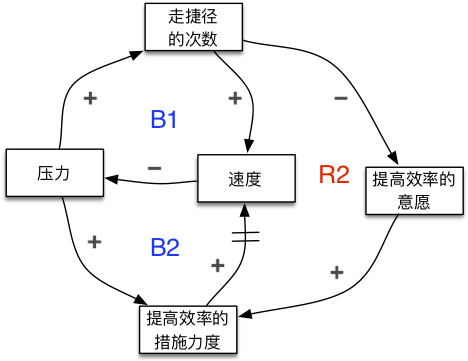
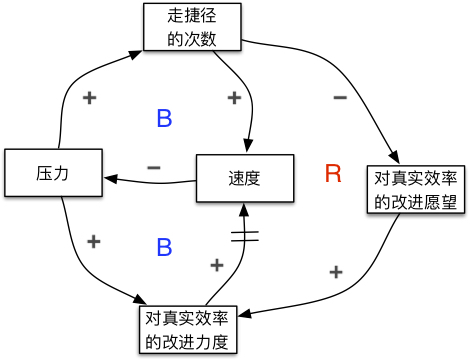
Updated Chapter2 with review comments

diff --git a/Chapter2/SystemsThinking.md b/Chapter2/SystemsThinking.md
@@ -1,16 +1,16 @@
 #第二章 系统思考
 
-因为我们会在书中大量应用系统思考来分析指导组织设计选择和变革策略，所以本章试图给大家做些必要的准备。但这不是一本全面介绍系统思考的书，除了阐述最基础的概念外，我们会结合产品开发组织相关的例子来帮助大家快速地看到系统思考和大规模产品开发组织这个话题的相关性，同时重点分享自己在实践系统思考过程中形成的一些理解和洞察。
+因为我们会在书中大量应用系统思考来分析组织设计选择和变革策略，所以本章试图给大家做些必要的知识准备。但这不是一本全面介绍系统思考的书，除了阐述最基础的概念外，我们会结合产品开发组织相关的例子来帮助大家快速地看到系统思考和大规模产品开发组织这个话题的相关性，同时重点分享自己在实践系统思考过程中形成的一些理解和洞察。
 
 ##1. 系统思考
 
-本书的副标题是“用系统思考指导组织设计和变革”。为什么用系统思考？Peter Senge在《第五项修炼》中区分定义了细节复杂度和动态复杂度。细节复杂度以涉及变量多为其特征，而动态复杂度却以因果关系之间的微妙为其特征。因和果经常不在同一时间和空间带来了高的动态复杂度，而系统思考能帮助我们更好地理解这样的问题并进行有效干预。大规模产品开发组织的设计和变革不仅是细节复杂的，还是动态复杂的，因此适合用系统思考来分析并指导。
+本书的副标题是“用系统思考指导组织设计和变革”。为什么用系统思考？彼得·圣吉在《第五项修炼》中区分定义了细节复杂度和动态复杂度。细节复杂度以涉及变量多为其特征，而动态复杂度却以因果关系之间的微妙为其特征。因和果经常不在同一时间和空间发生，由此带来了高的动态复杂度，而系统思考能帮助我们更好地理解这样的问题并进行有效干预。大规模产品开发组织的设计和变革不仅是细节复杂的，还是动态复杂的，因此适合用系统思考来分析并指导。
 
-系统思考本身的定义也有一定的模糊性，我们书中采用的概念和工具都来自于Jay Forrester奠基的系统动力学。系统动力学包含的主要工具有四个：因果回路图（Causal-Loop Diagram）、行为模式曲线（Behavior over Time Diagram）、存量流量图（Stock & Flow Diagram）和计算机模拟（Computer simulation)。系统思考的很多洞察是反直觉的，而基于计算机模拟的定量分析能够让我们产生新的洞察并改变我们的心智模式。但是就组织设计和变革的话题通过数学建模进行定量分析并不成熟，同时相信基于因果回路图的定性分析对于我们改变心智模式（对因果关系的思考从线性转向回路）已经能有很大的推动，所以本书将以因果回路图作为系统思考的建模和分析工具。
+系统思考本身的定义也有一定的模糊性，我们书中采用的概念和工具都来自于美国麻省理工学院的福瑞斯特教授奠基的系统动力学。系统动力学包含的主要工具有四个：因果回路图（CLD - Causal Loop Diagram）、行为趋势图（BoT - Behavior over Time Diagram）、存量流量图（SFD - Stock & Flow Diagram）和计算机模拟（Computer simulation)。系统思考的很多洞察是反直觉的，而基于计算机模拟的定量分析能够让我们产生新的洞察并改变我们的心智模式。但是考虑到1）就组织设计和变革的话题通过数学建模进行定量分析的方式并不成熟，2）基于CLD的定性分析和批判性思考已经能推动我们改变心智模式（对因果关系的思考从线性转向回路），所以本书将以CLD作为系统思考的建模和分析工具。
 
 ##2. 因果回路图（CLD：Causal-Loop Diagram）
 
-因果回路图在一般的系统思考书（比如《系统思考》和《Systems Thinking Basics》）里都有介绍。它基本的要素有：变量、链路和回路，我们接下来对这些要素逐一介绍。
+CLD（Causal Loop Diagram / 因果回路图）在一般的系统思考书（比如《系统思考》）里都有介绍。它基本的要素有：变量、链路和回路，我们接下来对这些要素逐一介绍。
 
 ###变量
 
@@ -24,15 +24,17 @@
 
 ###链路
 
-变量之间可以形成链路，这个链路是因果链路。变量A到变量B的链路是指，假设其它因素都一样的情况下，A的变化导致B的变化。这个变化可以是正向的，以“+”标注；也可以是负向的，以“-”标注。链路上可以有延迟，以“||”标注。
+变量之间可以形成链路，这个链路是因果链路。变量A到变量B的链路是指，假设其它因素都一样的情况下，A的变化会导致B的变化。根据两者变化的方向是否一致，链路有两种不同的极性。它可以是正向的，以“+”标注；也可以是负向的，以“-”标注。链路上可以有延迟，以“||”标注。
 
 我们通过两个例子来说明。
 
 ####1. “需求量”和“人数”之间的链路
 
-“需求量”变多，“人数”是变多还是变少，还是两者之间没有关联（也就是不形成链路）？一种解释是，“需求量”变多，“人数”变多，因为我们会招更多人做需求。这样就在“需求量”和“人数”之间形成了正向的链路。
+“需求量”变多，“人数”是变多还是变少，还是两者之间没有关联（也就是不形成链路）？
 
 ![](Link1.1.jpg)
+
+一种解释是，“需求量”变多，“人数”变多，因为我们会招更多人做需求。这样就在“需求量”和“人数”之间形成了正向的链路。
 
 当这样考虑时，我们发现“人数”作为一个变量其实并不准确，它指的可以是“需要人数”，也可以是“实际人数”。下图通过把这些变量区分，使得背后的因果关系能更清晰地呈现出来。注意这里“招聘”本身不是变量，但是“招聘力度”是一个合适的变量，它可以变大或变小。
 
@@ -46,21 +48,21 @@
 
 “需求量”变多，“需要人数”变多，“招聘力度”变大，（经过一段时间后）“实际人数”变多。
 
-除了正向/负向（“+”/“-”）之外，另一种常见的链路变化方向表述是同向/反向。同向以“s”标注，代表“same direction”；反向以“o”标注，代表“opposite direction”。本书采用了正向/负向的表述方式，是基于以下原因。
+除了正向 / 负向（“+” / “-”）之外，另一种常见的链路变化方向表述是同向/反向。同向以“s”标注，代表“same direction”；反向以“o”标注，代表“opposite direction”。本书采用了正向/负向的表述方式，是基于以下原因。
 
-“招聘力度”变大，“实际人数”变多；那么“招聘力度”变小，“实际人数”变少吗？只要是在招聘，实际人数是不会变少的。所以这里用同向/反向的表述有些难以理解，而正向/反向的表述则更为恰当。正向/负向究竟是什么含义呢？准确的说法应该是，“招聘力度”变小，“实际人数”相比按之前的招聘力度能获得的实际人数变得更小。因此无论从哪个变化的方向看，它都是正向的关系。
+“招聘力度”变大，“实际人数”变多，在这个方向上两者是同向的。那么“招聘力度”变小，“实际人数”变少吗？只要是在招聘，实际人数是不会变少的，在这个方向上两者似乎并不同向。所以这里用同向/反向的表述会让人有些困惑，而正向/反向的表述则更为准确。正向/负向究竟是什么含义呢？准确的说法应该是，“招聘力度”变小，“实际人数”相比按之前的招聘力度能获得的实际人数变得更小。因此无论从哪个变化的方向看，它都是正向的关系。
 
 ####2. “加班量”和“产出”之间的链路
 
-“加班量”和“产出”之间有链路吗？是正向还是负向的？一种解释可以是，“加班量”变多，“工作时长”变长，“产出”变多。这是正向的链路。
+“加班量”和“产出”之间有链路吗？是正向还是负向的？
 
 ![](Link2.1.jpg)
 
-而另一种解释可以是，“加班量”变多，“士气”变低，“效率”变低，“产出”变少。
+一种解释可以是，“加班量”变多，“工作时长”变长，“产出”变多。这是正向的链路。
 
 ![](Link2.2.jpg)
 
-“加班量”和“士气”之间是负向的链路。这个负向链路也使得从“加班量”到“产出”整体也是负向的，因为其余的链路都是正向的。要判断两个变量之间最终的因果关系，只需数其中负向链路的个数，如果是偶数个，就是正向的；如果是奇数个，就是负向的。
+而另一种解释可以是，“加班量”变多，“士气”变低，“效率”变低，“产出”变少。“加班量”和“士气”之间是负向的链路。这个负向链路也使得从“加班量”到“产出”整体也是负向的，因为其余的链路都是正向的。要判断两个变量之间最终的因果关系，只需数其中负向链路的个数，如果是偶数个，就是正向的；如果是奇数个，就是负向的。
 
 这样一来“加班量”和“产出”之间形成了两条链路，一条是正向的，而另一条是负向的。综合起来是正向还是负向就需要通过量化分析才能决定了。
 
@@ -70,7 +72,7 @@
 
 ###回路
 
-链路可能形成回路。从变量A到变量B有一条链路，当变量B的变化反过来又导致变量A的变化（也就是从变量B到变量A也有一条链路）时，它们就形成了回路。有两种回路，一种是增强回路（Reinforcing loop，标注为R），另一种是平衡回路（Balancing loop，标注为B）。
+几条链路可能形成回路。如果从变量A到变量B有一条链路，当从变量B到变量A，之间可能通过一系列其它的变量，也有一条链路时，就形成了回路。有两种类型的回路，一种是增强回路（Reinforcing loop，标注为R），另一种是平衡回路（Balancing loop，标注为B）。
 
 ####1. 增强回路（R）
 
@@ -84,7 +86,7 @@
 
 ###2. 平衡回路（B）
 
-我们继续展开之前“需求量”和“人数”之间的链路，“实际人数”变多，完成的“需求量”变多。。。这时我们发现“需求量”这个变量定义得并不准确，可以把它区分定义为三个与“需求量”相关但又不同的变量 - “完成需求量”、“待做需求量”和“输入需求量”。“待做需求量”是“输入需求量”和“完成需求量”的差值。“输入需求量”变多，“待做需求量”变多，它们之间是正向链路；“完成需求量”变多，“待做需求量”变少，它们之间是负向链路。
+我们继续展开之前“需求量”和“人数”之间的链路，“实际人数”变多，完成的“需求量”变多。。。这时我们发现“需求量”这个变量定义得并不准确，可以把它区分定义为三个与“需求量”相关但又不同的变量 - “完成需求量”、“待做需求量”和“输入需求量”。“待做需求量”是“输入需求量”和“完成需求量”的差值。
 
 ![](LoopB1.jpg)
 
@@ -118,7 +120,7 @@
 
 ![](ArchetypeShiftingTheBurden.jpg)
 
-“舍本逐末”系统基模由两个平衡回路和一个增强回路组成。如果“走捷径以加速”的平衡回路（上图左上）是饮鸩止渴的话，有没有其它的平衡回路可以帮助达到目标？上图左下的平衡回路是一种可能性，当需要加速带来的“压力”变大时，我们增加“提高效率的措施力度”，从而使得“速度”变快，“压力”得以释放，我们把这个平衡回路命名为“提高效率以加速”。提高效率的措施可以有很多，比如通过培训学习提升技能、加强协作、移除障碍等，这些措施相对于走捷径来说通常需要更长的时间才能见效。而当短期内走捷径看起来起作用时，“提高效率的意愿”就会变低，以致于“提高效率的措施力度”变低，“速度”变慢，“压力”变大，进而更多地走捷径，由此形成了一个增强回路，可以命名为“上瘾于走捷径”。“舍本逐末”系统基模的关键特征是短期表面方案和长期根本方案之间的张力，因为增强回路的存在，使得我们上瘾于短期表面方案。
+“舍本逐末”系统基模由两个平衡回路和一个增强回路组成。如果“走捷径以加速”的平衡回路（上图左上）是饮鸩止渴的话，有没有其它的平衡回路可以帮助达到目标？上图左下的平衡回路是一种可能性，当需要加速带来的“压力”变大时，我们增加“对真实效率的改进力度”，从而使得“速度”变快，“压力”得以释放，我们把这个平衡回路命名为“改进效率以加速”。对效率的改进措施可以有很多，比如通过培训学习提升技能、加强协作、移除障碍等，这些措施相对于走捷径来说通常需要更长的时间才能见效。而当短期内走捷径看起来起作用时，“对真实效率的改进愿望”就会变低，以致于“对真实效率的改进力度”变低，“速度”变慢，“压力”变大，进而更多地走捷径，由此形成了一个增强回路，可以命名为“上瘾于走捷径”。“舍本逐末”系统基模的关键特征是短期表面方案和长期根本方案之间的张力，因为增强回路的存在，使得我们上瘾于短期表面方案。
 
 ###目标侵蚀（Eroding goals）
 
@@ -147,8 +149,8 @@
 
 以研发采用走捷径的做法为例：
 
-1. 走捷径的意图是什么？它想达成什么目标，解决什么问题？达成目标/解决问题可以用平衡回路表示出来，这就是“走捷径以加速”的平衡回路。
-1. 走捷径带来什么后果？尤其是拉长时间来看有什么意外的后果。这些后果可能回过来影响之前的目标，形成“缺陷拖后腿”的增强回路，“走捷径以加速”和“缺陷拖后腿”两者构成了“饮鸩止渴”的系统基模。这些后果也可能影响其它方面的目标，比如质量。假设通过走捷径速度确实变快，但同时质量下降，那样的话就是两个系统目标（速度和质量）哪个更重要的问题了。
+1. 走捷径的意图是什么？它想达成什么目标，解决什么问题？达成目标 / 解决问题可以用平衡回路表示出来，这就是“走捷径以加速”的平衡回路。
+1. 走捷径带来什么后果？尤其是拉长时间来看是否有意外的后果，它反过来对之前目标产生负面的影响，形成“缺陷拖后腿”的增强回路。“走捷径以加速”和“缺陷拖后腿”两者构成了“饮鸩止渴”的系统基模。这些后果也可能影响其它方面的目标，比如质量。假设通过走捷径速度确实变快，但同时质量下降，那样的话就是两个系统目标（速度和质量）哪个更重要的问题了。
 1. 有什么其它的做法能加速？加速是走捷径背后的意图，我们可以通过其它做法实现这个意图吗？“提高效率以加速”就是体现另一个做法的平衡回路。
 1. 为什么提高效率难以实施？为什么还一直走捷径？这里我们发现增强回路“上瘾于走捷径”的存在解释了背后的原因。
 
@@ -163,7 +165,7 @@
 1. 对某项变革有什么推动力可以借用？
 1. 对某项变革有什么限制力需要削弱？
 
-这两个问题跟常用的力场分析法（Force Field Analysis）有些类似，不同的是我们会去寻找可以借用的增强回路和识别需要削弱的平衡回路，而力场分析法往往止步于线性因果。
+这两个问题跟常用的力场分析法（Force Field Analysis）有些类似，不同的是我们会去寻找可以借用的增强回路和识别需要削弱的平衡回路，而力场分析法往往止步于线性因果关系。
 
 以导入某个实践为例：
 
@@ -176,7 +178,7 @@
 
 ##总结
 
-这一章是给后续章节基于系统思考的分析做个准备。系统思考是个专门的学科，有很多书可以参考学习，所以本章只是结合产品开发这个领域的例子来阐述了我们会应用到的基础知识。
+这一章是给后续章节基于系统思考的分析做个准备。系统思考是个专门的学科，有很多书可以参考学习，所以本章只是结合产品开发这个领域的例子阐述了我们会应用到的一些基础知识。
 
 回路是核心，回路由一些变量和链路形成，而多个回路又形成系统基模。我们会在书中采用正向（+）和负向（-）标注链路，采用R和B分别标注增强回路和平衡回路，并对回路进行命名。
 
